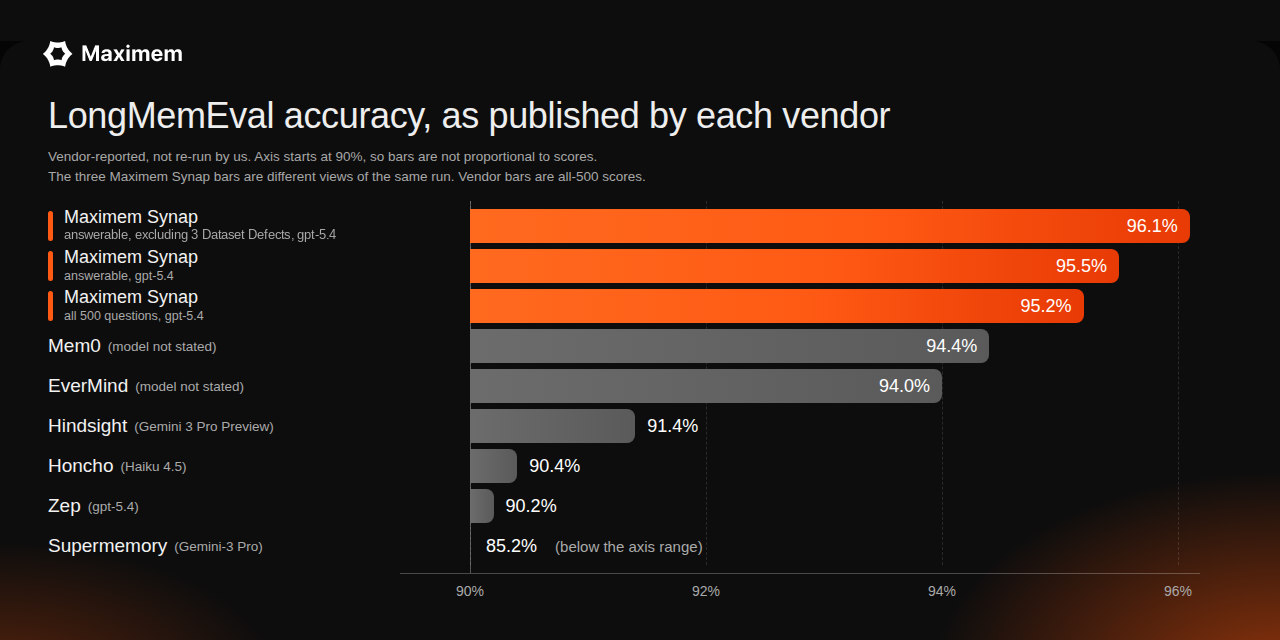
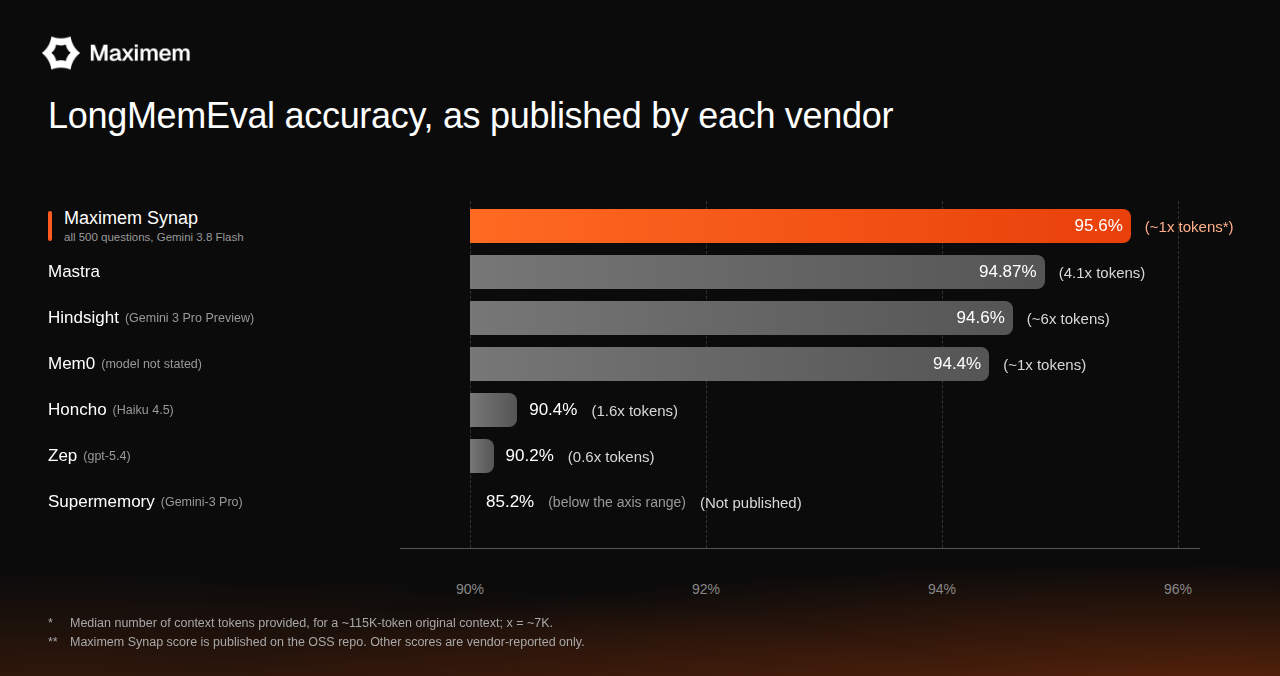
Update comparison chart, remove social card

diff --git a/AGENTS.md b/AGENTS.md
@@ -12,7 +12,7 @@ Nothing to build. Before proposing a change, check that every number in `README.
 - `METHODOLOGY.md`: models, scope decisions, vendor comparison
 - `bench/README.md`: how to re-run with the harness
 - `CITATION.cff`: citation metadata
-- `.github/`: banners, chart, social card, templates
+- `.github/`: banners, chart, templates
 
 ## Rules for changes
 - Never change a score without a re-run from the harness and an updated `RESULTS.md`.
